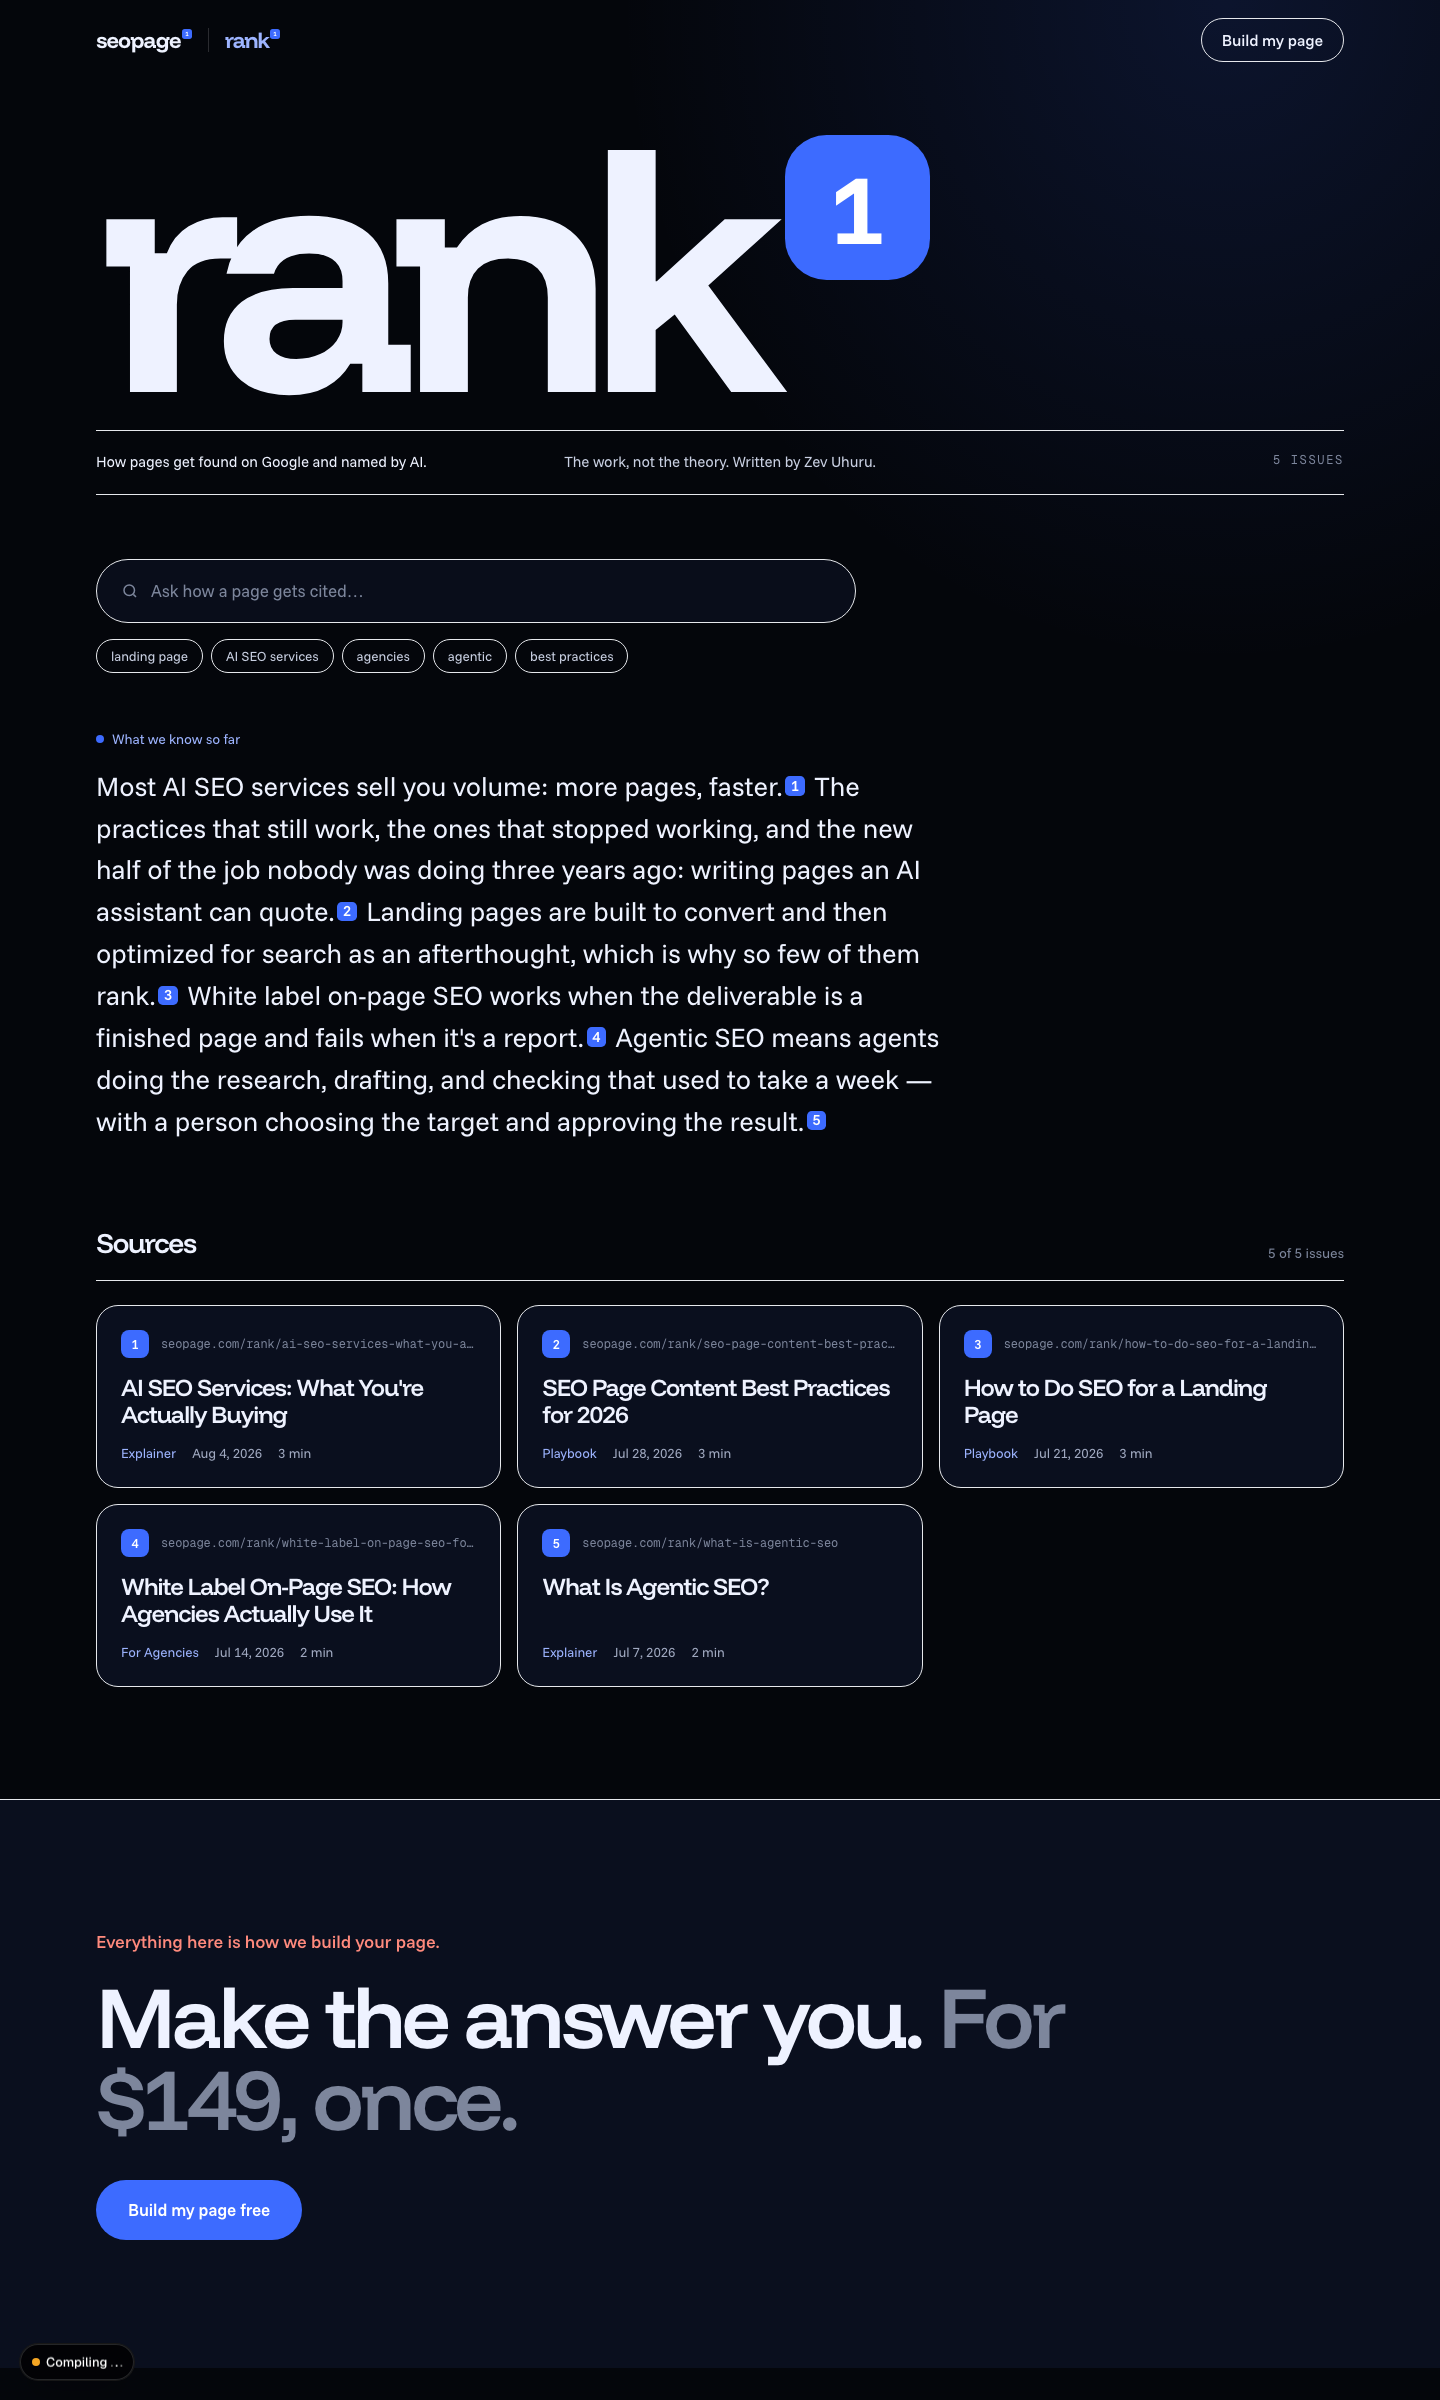
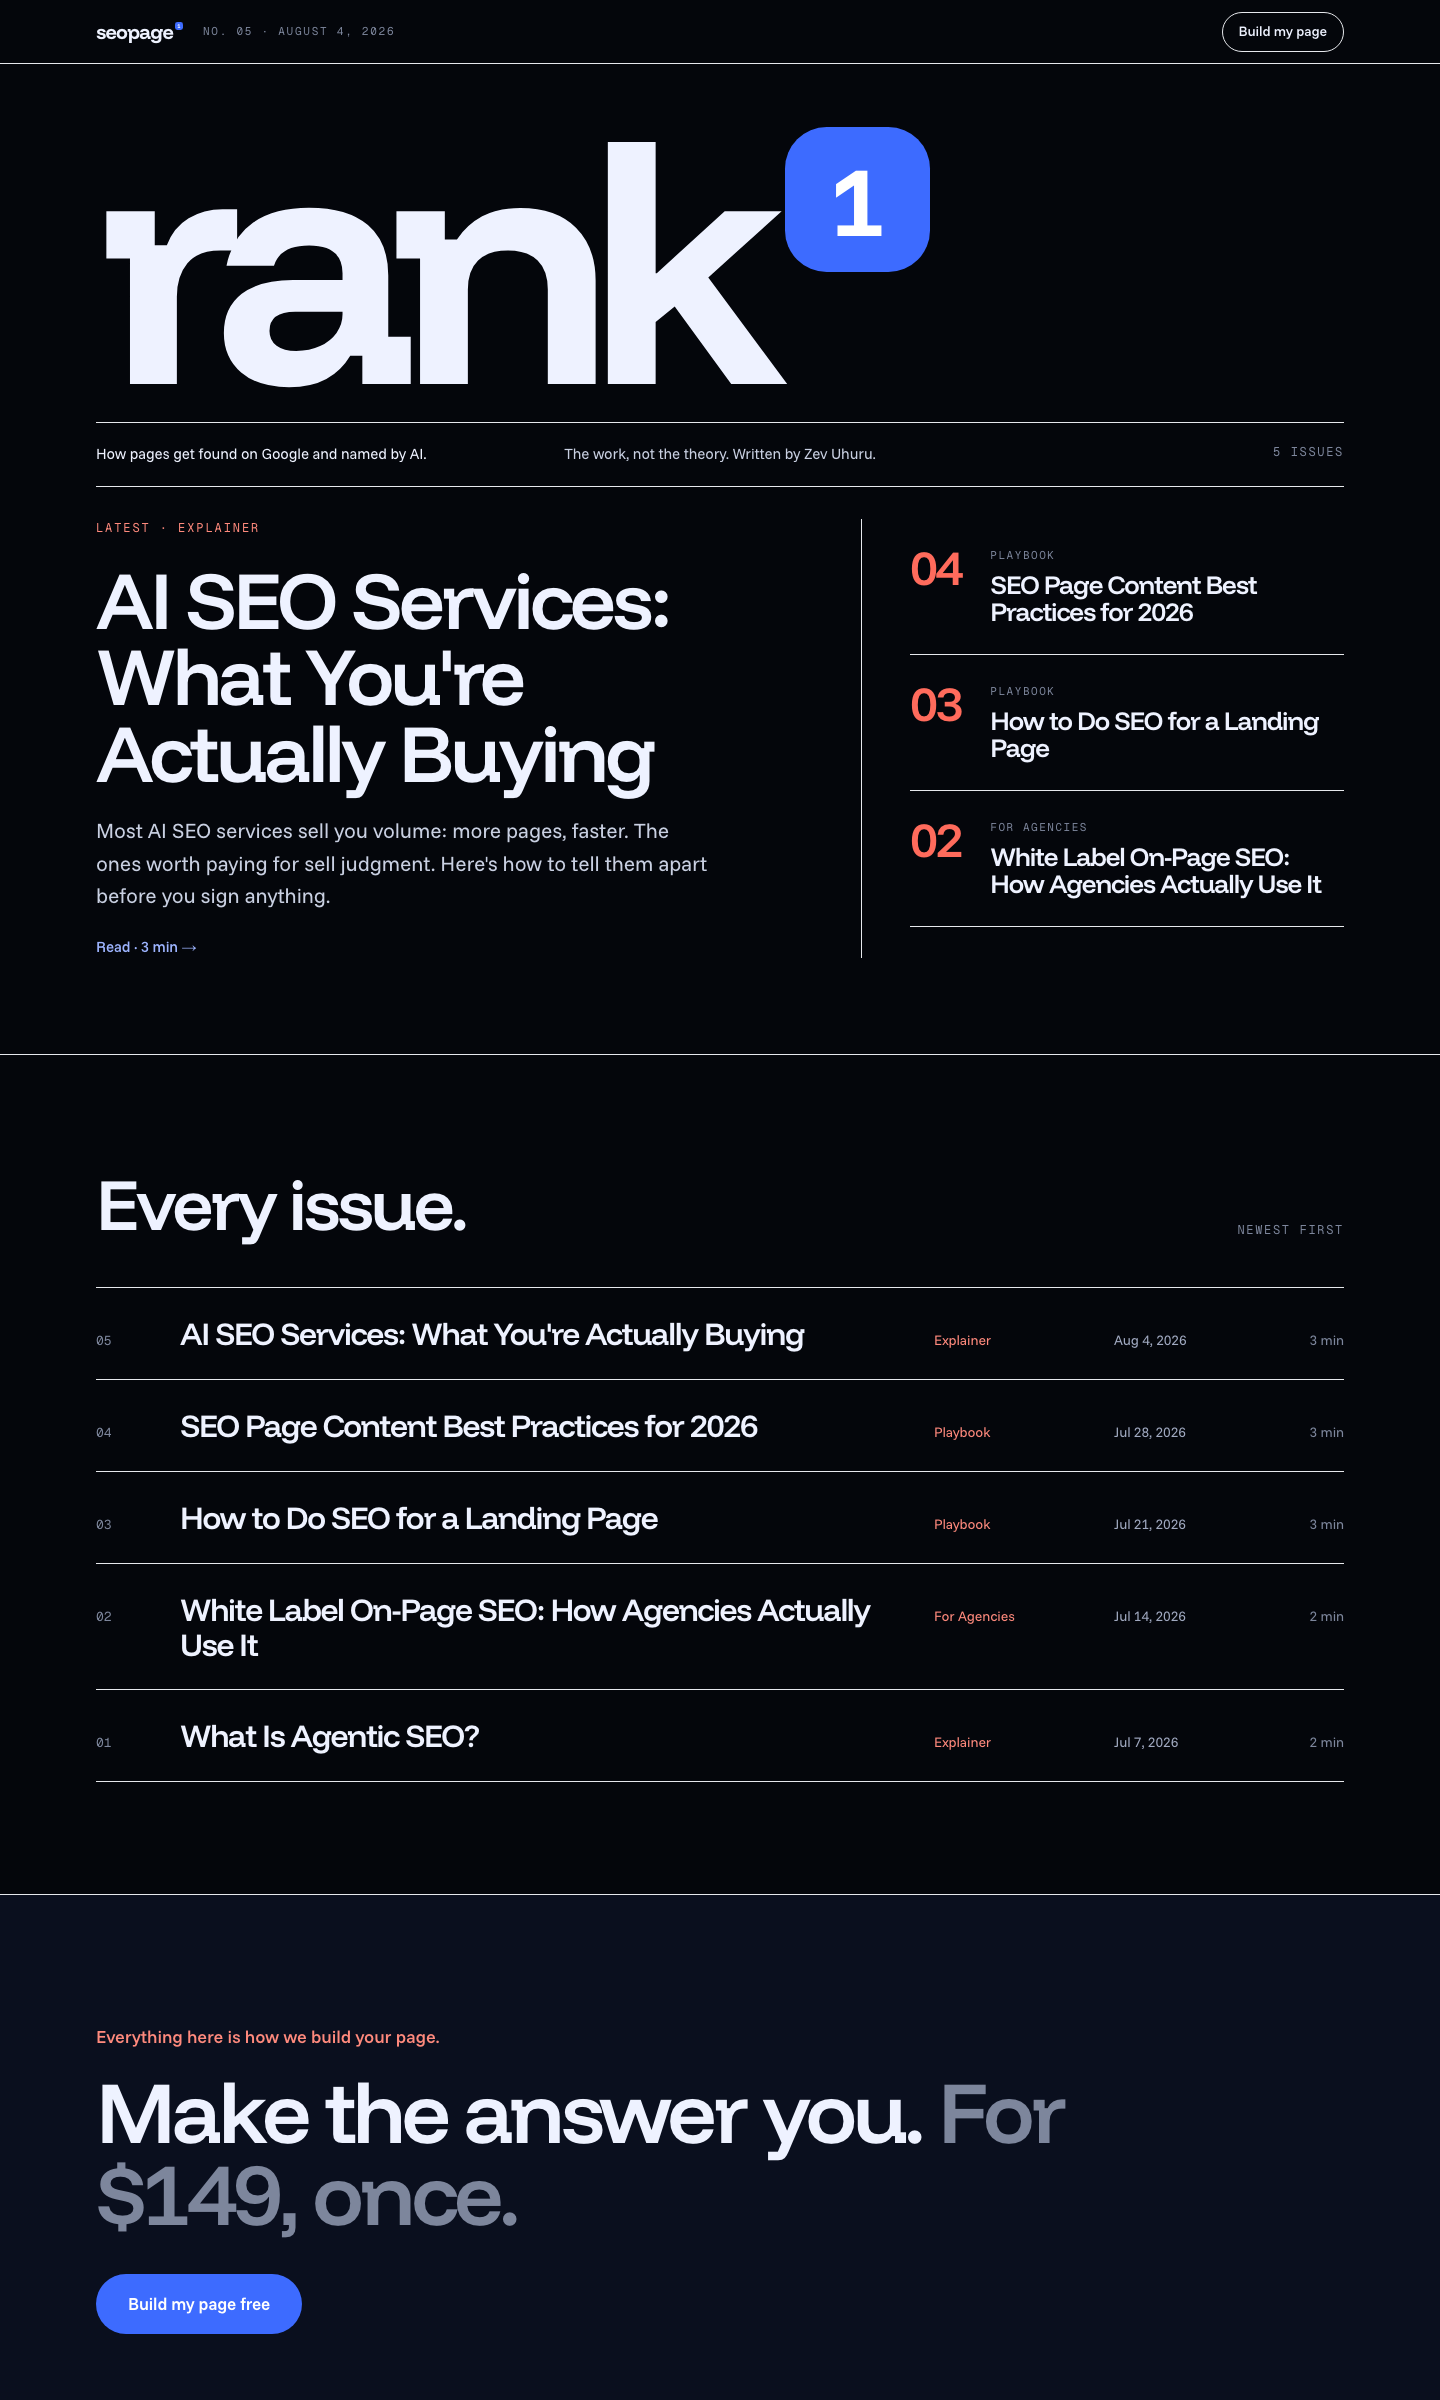
rank¹ index uses the Front Page design
The index is now prototype A: masthead, the latest issue beside the next
three, and a numbered list of every issue. Articles keep the Answer Engine
layout. The search box it replaces is removed.

diff --git a/app/rank/page.tsx b/app/rank/page.tsx
@@ -1,7 +1,9 @@
 import type { Metadata } from "next";
-import { Ask } from "@/components/rank/Ask";
-import { JournalClose, JournalHeader, PAD, RankMark } from "@/components/rank/parts";
-import { firstSentence, formatDate, getArticles, JOURNAL_PATH, readMinutes } from "@/lib/articles";
+import Link from "next/link";
+import { Logo } from "@/components/Logo";
+import { JournalClose, PAD, RankMark } from "@/components/rank/parts";
+import { formatDate, getArticles, JOURNAL_PATH, readMinutes } from "@/lib/articles";
+import { CREATE_URL } from "@/lib/config";
 
 // "Agentic SEO" stays the index's target term through the rename.
 const TITLE = "rank¹: Agentic SEO, in the Open | SEOPage";
@@ -26,25 +28,35 @@ export const metadata: Metadata = {
 // Backstop only — the publish webhook purges the article tags on change.
 export const revalidate = 3600;
 
+const pad2 = (n: number) => String(n).padStart(2, "0");
+
+/* The front page of a dark broadsheet. No imagery: the masthead, the issue
+   numbers, and the headline sizes do the work the Nora videos do on the
+   homepage. Issue numbers count up from the oldest. */
 export default async function RankIndex() {
   const articles = await getArticles();
-  const sources = articles.map((a, i) => ({
-    n: i + 1,
-    slug: a.slug,
-    title: a.title,
-    lead: firstSentence(a.description),
-    label: a.categoryLabel,
-    date: formatDate(a.publishedAt),
-    minutes: readMinutes(a.content),
-    haystack: [a.title, a.description, a.categoryLabel, ...a.tags].join(" ").toLowerCase(),
-  }));
+  const [lead, ...rest] = articles;
+  const next = rest.slice(0, 3);
+  const issueNo = (i: number) => pad2(articles.length - i);
 
   return (
-    <main style={{ background: "radial-gradient(60% 40% at 85% 0%, rgba(61,107,255,.14), transparent 70%)" }}>
-      <JournalHeader />
+    <main>
+      <div className={`${PAD} flex h-16 items-center justify-between border-b border-white/12`}>
+        <div className="flex items-center gap-5">
+          <Logo tone="dark" className="text-[20px]" />
+          {lead && (
+            <span className="nh-mono hidden text-[11px] uppercase tracking-[0.16em] text-[#7D869C] sm:inline">
+              No. {issueNo(0)} · {formatDate(lead.publishedAt, "long")}
+            </span>
+          )}
+        </div>
+        <a href={CREATE_URL} className="flex h-10 items-center rounded-full border border-white/30 px-4 text-[14px] font-medium hover:border-white/60">
+          Build my page
+        </a>
+      </div>
 
       {/* MASTHEAD */}
-      <header className={`${PAD} pt-8 lg:pt-12`}>
+      <header className={`${PAD} pb-8 pt-10 lg:pt-14`}>
         <h1>
           <span className="sr-only">rank, the SEOPage journal</span>
           <RankMark className="text-[clamp(120px,24vw,380px)] tracking-[-0.07em] !leading-[0.78]" />
@@ -58,9 +70,57 @@ export default async function RankIndex() {
         </div>
       </header>
 
-      {/* THE ANSWER + SOURCES */}
-      <section className={`${PAD} pb-28 pt-6`}>
-        <Ask sources={sources} base={JOURNAL_PATH} />
+      {/* FRONT: the latest issue beside the next three */}
+      {lead && (
+        <section className={`${PAD} grid gap-12 pb-24 lg:grid-cols-12 lg:gap-16`}>
+          <Link href={`${JOURNAL_PATH}/${lead.slug}`} className="group flex flex-col gap-6 lg:col-span-7">
+            <span className="nh-mono text-[12px] uppercase tracking-[0.16em] text-[#FF8A7D]">Latest · {lead.categoryLabel}</span>
+            <h2 className="nh-display text-[clamp(44px,5.6vw,88px)] leading-[0.95] transition-colors group-hover:text-[#9DB4FF]">{lead.title}</h2>
+            <p className="max-w-[620px] text-[clamp(18px,1.5vw,21px)] leading-[1.55] text-[#C9D0E2]">{lead.description}</p>
+            <span className="text-[15px] font-medium text-[#9DB4FF]">Read · {readMinutes(lead.content)} min →</span>
+          </Link>
+          {next.length > 0 && (
+            <ol className="flex flex-col lg:col-span-5 lg:border-l lg:border-white/12 lg:pl-12">
+              {next.map((a, i) => (
+                <li key={a.slug} className="border-b border-white/12 first:border-t lg:first:border-t-0">
+                  <Link href={`${JOURNAL_PATH}/${a.slug}`} className="group grid grid-cols-[64px_1fr] gap-4 py-7">
+                    <span className="nh-display text-[48px] leading-[0.85] text-[#FF6B5C]">{issueNo(i + 1)}</span>
+                    <span className="flex flex-col gap-2">
+                      <span className="nh-mono text-[11px] uppercase tracking-[0.14em] text-[#7D869C]">{a.categoryLabel}</span>
+                      <span className="nh-display text-[26px] leading-[1.05] tracking-[-0.035em] transition-colors group-hover:text-[#9DB4FF]">{a.title}</span>
+                    </span>
+                  </Link>
+                </li>
+              ))}
+            </ol>
+          )}
+        </section>
+      )}
+
+      {/* EVERY ISSUE */}
+      <section className={`${PAD} border-t border-white/12 py-20 lg:py-28`}>
+        <div className="flex items-end justify-between gap-6">
+          <h2 className="nh-display text-[clamp(40px,5vw,72px)] leading-none">Every issue.</h2>
+          <span className="nh-mono text-[12px] uppercase tracking-[0.14em] text-[#7D869C]">Newest first</span>
+        </div>
+        <ul className="mt-12 border-t border-white/12">
+          {articles.map((a, i) => (
+            <li key={a.slug}>
+              <Link
+                href={`${JOURNAL_PATH}/${a.slug}`}
+                className="group grid grid-cols-[48px_1fr] items-baseline gap-x-5 gap-y-2 border-b border-white/12 py-7 transition-colors hover:bg-[#3D6BFF]/[0.07] md:grid-cols-[64px_1fr_160px_130px_80px]"
+              >
+                <span className="nh-mono text-[13px] text-[#7D869C]">{issueNo(i)}</span>
+                <span className="nh-display text-[clamp(22px,2.2vw,32px)] leading-[1.08] tracking-[-0.035em] group-hover:text-[#9DB4FF]">{a.title}</span>
+                <span className="col-start-2 text-[14px] text-[#FF8A7D] md:col-start-auto">{a.categoryLabel}</span>
+                <time dateTime={a.publishedAt} className="col-start-2 text-[14px] text-[#A0A9C0] md:col-start-auto">
+                  {formatDate(a.publishedAt)}
+                </time>
+                <span className="hidden text-right text-[14px] text-[#7D869C] md:block">{readMinutes(a.content)} min</span>
+              </Link>
+            </li>
+          ))}
+        </ul>
       </section>
 
       <JournalClose />

diff --git a/lib/articles.ts b/lib/articles.ts
@@ -174,11 +174,6 @@ export function headingsOf(content: string): { id: string; text: string }[] {
   });
 }
 
-/** An article's first sentence, for answer-style summaries. */
-export function firstSentence(text: string): string {
-  return text.match(/^.*?[.!?](\s|$)/)?.[0].trim() ?? text;
-}
-
 export function formatDate(iso: string, month: "short" | "long" = "short"): string {
   return new Date(iso).toLocaleDateString("en-US", { month, day: "numeric", year: "numeric", timeZone: "UTC" });
 }
